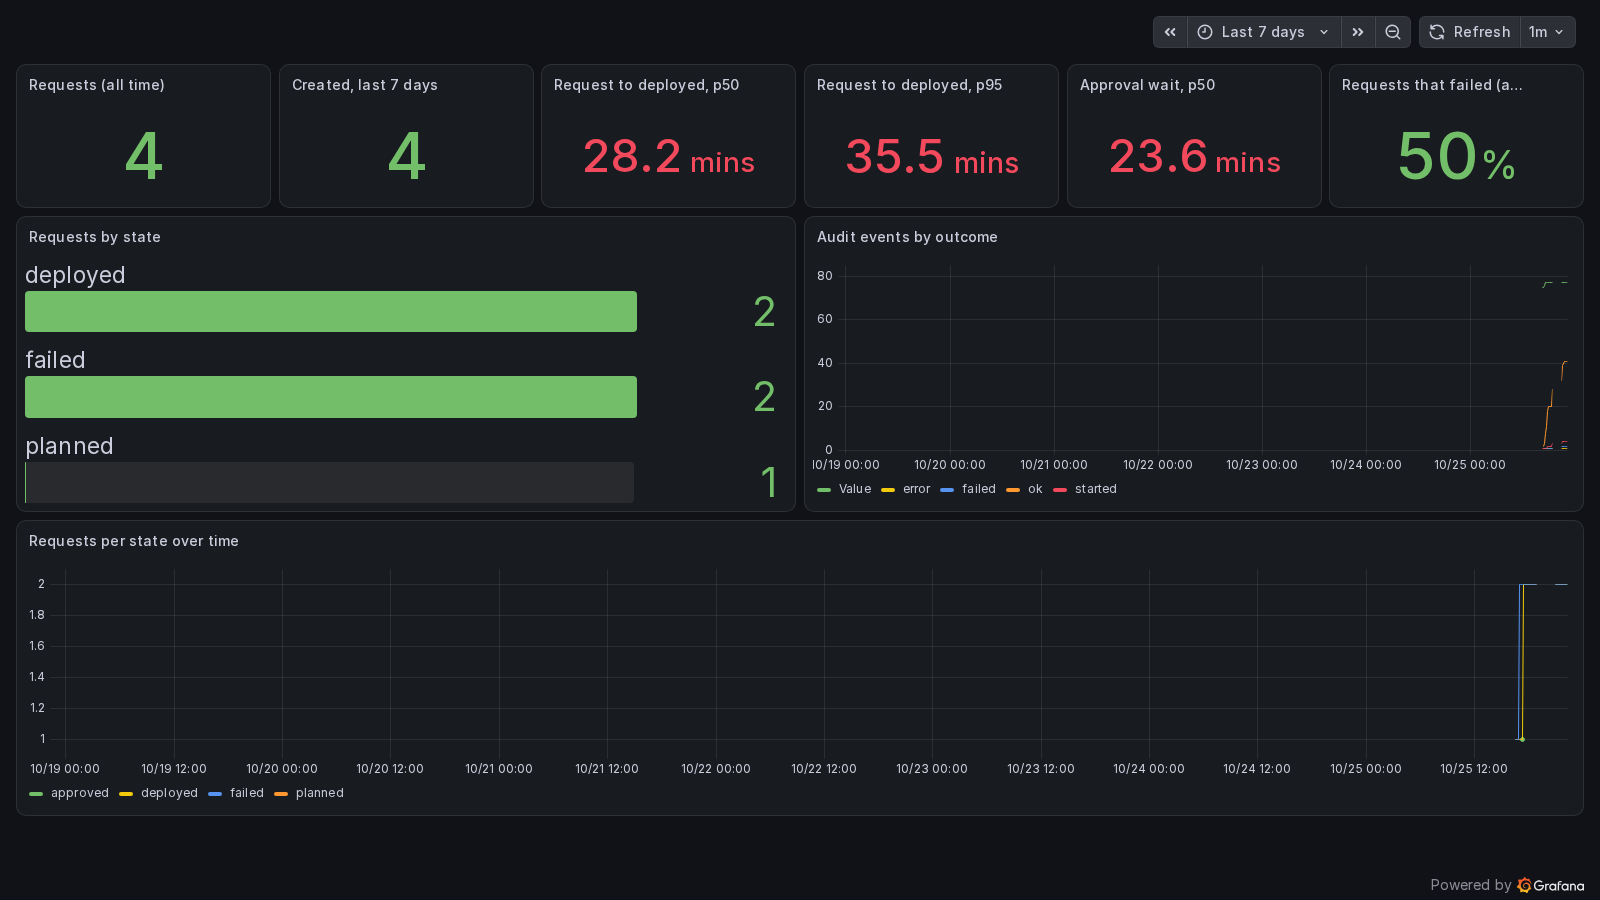
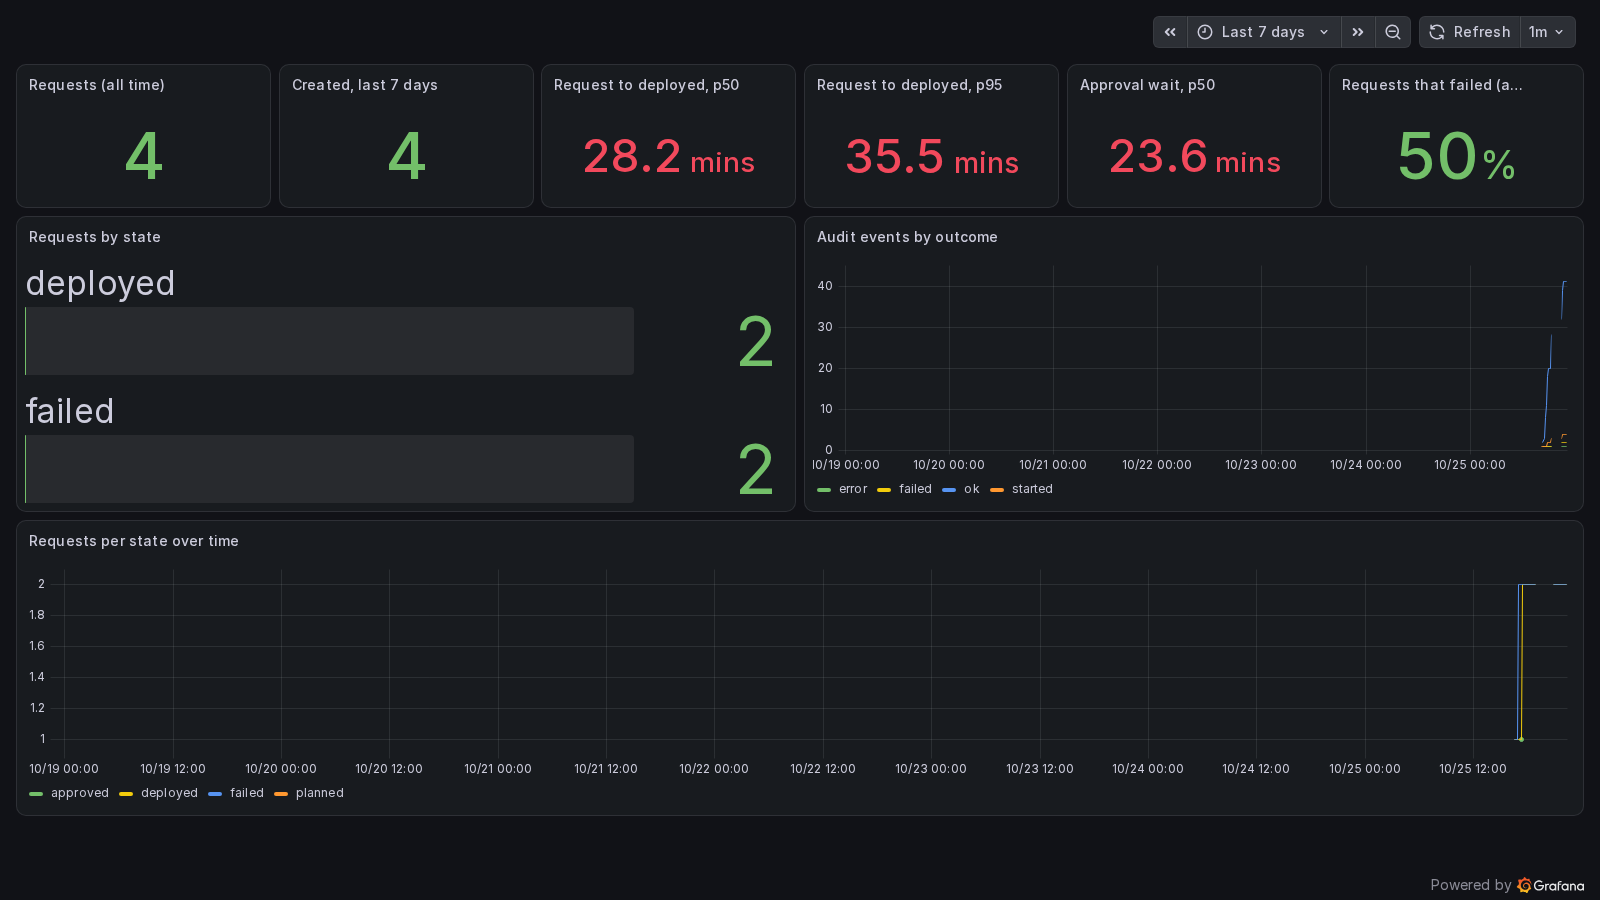
Phase 4 task 4: docs/demo-script.md, the five-minute recording scene by scene (commands, clicks, the waits to cut, a checklist of every README claim and where the recording shows it); README links it; dashboard screenshots retaken after the instant-query fix (eval score 46%, one prompt version, ever

diff --git a/docs/demo-script.md b/docs/demo-script.md
@@ -1,0 +1,201 @@
+# Demo script: five minutes, two stories
+
+The recording shows the two things this repo claims: a developer gets
+cloud and Kubernetes resources through one reviewed path, and an AI agent
+turns an alert into a reviewed pull request without ever touching the
+cluster. Five minutes of screen time; the real waits (CI, the approval,
+the model) are cut and labelled on screen, not hidden.
+
+Every command below runs in the devcontainer terminal unless it says
+"browser". Timings are recording time; "cut" tells you what to skip and
+how long it really takes on the laptop this was built on.
+
+## Before you press record (15 minutes, off camera)
+
+1. Cluster up and green, Ollama serving `qwen3:4b-instruct` on the host:
+
+   ```bash
+   make status                      # every ArgoCD app Synced and Healthy, no pod not Running
+   curl -s http://host.docker.internal:11434/api/tags | grep -o 'qwen3:4b-instruct'
+   ```
+
+2. Nothing broken in git: `make fix` prints "already healthy in git".
+3. A second terminal with the platform API reachable for the CLI:
+
+   ```bash
+   kubectl -n platform port-forward svc/platform-api 18000:80
+   ```
+
+   In the first terminal: `export PLATFORM_API_URL=http://localhost:18000`
+   and `alias platform=platform/api/.venv/bin/platform`.
+4. Browser tabs, in this order, logged in where needed:
+   - the repository on GitHub: **Pull requests**, **Actions**
+   - http://demo.localhost:8080 (the demo app)
+   - http://bank.localhost:8080 (Playground Bank)
+   - http://argocd.localhost:8080 (user `admin`, password printed by `make up`)
+   - http://grafana.localhost:8080/d/platform-dx and
+     http://grafana.localhost:8080/d/platform-agents (user `admin`, the
+     password: `kubectl -n observability get secret grafana-admin -o jsonpath='{.data.admin-password}' | base64 -d`)
+5. Terminal font at 16 pt or larger, window 1600 by 900, dark theme.
+   Record with OBS or the Windows Game Bar (Win+G) at 1080p.
+6. Pick a bucket name that does not exist yet (`team-photos` below). The
+   worker writes the newest bucket's name into the demo app's ConfigMap,
+   so the page will show it.
+
+## Scene 1. What this is (0:00 to 0:30)
+
+Browser: the README, top of the page. Read the first two sentences, then
+scroll to the status table. Say: "two stories, one path for each: a
+request becomes a pull request, an alert becomes a pull request. People
+approve both."
+
+## Scene 2. A developer asks for a bucket (0:30 to 1:40)
+
+Terminal:
+
+```bash
+platform request s3-bucket --name team-photos --team web --cost-center cc-100
+```
+
+It prints the request id (`r-xxxxxx`) and the pull request URL. Open the
+URL in the browser. Show the diff: one file, `requests/r-xxxxxx.tf`, one
+module call. Say: "the API validated the inputs against the type's schema
+and rendered this; nobody wrote Terraform."
+
+**Cut: about 3 minutes.** CI (`iac-pr`) plans, runs the OPA policies,
+Checkov, Trivy and Infracost, then comments on the PR and merges it.
+
+Back on the PR: scroll the bot comment: the plan (`6 to add`), the policy
+result, the cost. The PR is merged. Terminal:
+
+```bash
+platform status r-xxxxxx
+```
+
+Read the timeline: `requested`, `pr-opened`, `plan-ok`, `policy-ok`,
+`planned`. Say: "this timeline is the audit trail; every row has who,
+what and when."
+
+## Scene 3. One click, then the worker (1:40 to 2:30)
+
+Browser: **Actions** tab, the `iac-approve` run waiting on the
+`production` environment. Click **Review deployments**, tick
+`production`, **Approve and deploy**. Say: "the only human step, and it
+is the one GitHub already knows how to audit."
+
+**Cut: about 2 minutes.** The apply worker inside the cluster polls every
+30 seconds, runs Terraform against LocalStack with state in Postgres,
+writes `applied` and `deployed`, and commits the outputs to the GitOps
+folder; ArgoCD rolls the ConfigMap out within 3 minutes.
+
+Terminal: `platform status r-xxxxxx` again: `approved`, `applied`,
+`deployed`, the bucket name in the `applied` row. Browser: the demo app
+tab, refresh: it shows `team-photos`. Say: "request to running app, one
+file reviewed, one click."
+
+## Scene 4. Break the tenant app, let the agent find it (2:30 to 3:50)
+
+Terminal:
+
+```bash
+make break BREAK_TARGET=bank
+```
+
+Read what it prints: it changes one setting line in git
+(`HOST=0.0.0.0` to `0.0.0.0.1`), pushes, and asks ArgoCD to sync. Say:
+"this is someone else's app, Playground Bank, from its own repository;
+the platform only pins a version and a few settings."
+
+**Cut: about 4 minutes.** The pod crash-loops within a minute; the alert
+`BankAppCrashLooping` needs three restarts and one more minute; Alertmanager
+posts it to the agent runtime, which starts a run.
+
+Terminal, show the run exists:
+
+```bash
+kubectl -n platform logs deploy/agent-runtime --since=5m | grep -E "run-|tool"
+```
+
+Say: "the agent reads the pod, the GitOps folder, the logs. Its
+Kubernetes account can only read; it cannot change this cluster even if
+the model wanted to." Prove it in one line:
+
+```bash
+kubectl auth can-i delete pods --as=system:serviceaccount:platform:agent-runtime -n bank
+```
+
+`no`.
+
+**Cut: 10 to 15 minutes on the local 4B model** (about a minute on
+Claude). Say so on screen; the honesty is part of the pitch.
+
+Browser: **Pull requests**: the agent's PR, title from the run. Show the
+diff: `+1 / -1`, the HOST line. Scroll the body: symptoms, evidence (the
+exact log line `getaddrinfo ENOTFOUND 0.0.0.0.1`), root cause, the
+proposed change, confidence, what it could not verify. Say: "a one-line
+fix with its evidence; the tool only lets it change one line, under
+`gitops/apps/`, on a branch named `agent/`."
+
+Click **Merge pull request**.
+
+**Cut: about 3 minutes.** ArgoCD syncs; the app is Ready in seconds.
+
+Browser: the bank tab, refresh: products load. Terminal:
+
+```bash
+curl -s http://localhost:18000/smoke/bank
+```
+
+`4 of 4 passed`. Say: "the same smoke test the agent can run as a
+read-only tool."
+
+## Scene 5. The trust layer (3:50 to 4:40)
+
+Browser, Grafana, the **Agents** dashboard: runs, success rate, tool calls
+by outcome, the eval score of the deployed prompt. Say: "the model is
+small and wrong a quarter of the time; the point is that it cannot be
+dangerous, and every wrong answer becomes a recorded scenario." Switch to
+the **Platform DX** dashboard: request to deployed, approval wait.
+
+Terminal, the recorded scenarios and the policy as code, one `ls` each:
+
+```bash
+ls agents/evals/fixtures/      # 13 scenarios, incidents and safety traps
+ls docs/runbooks/              # seven runbooks the agent reads, one per alert family
+ls infra/policies/kyverno/     # the third lock: the cluster refuses writes from the agent
+```
+
+Say: "`make evals` scores a prompt change against all 13 before it ships;
+the score on the dashboard is from the last run."
+
+## Scene 6. Close (4:40 to 5:00)
+
+Browser: the README's "Add a resource type in 10 minutes" and "Add an
+agent in 20 minutes" headings, then `docs/adr/`. Say: "twelve decision
+records explain the why; the roadmap says what is next. Clone it, run
+`make up`, and the README is the only guide you need."
+
+## After recording
+
+- `make fix` if you did not merge the agent's PR (it did nothing if you
+  did). Delete the demo request's bucket only by closing its PR before
+  merge next time; LocalStack forgets everything on `make down` anyway.
+- Put the video next to the README (a link under the golden-path GIF).
+
+## What the README claims and where the recording shows it
+
+| Claim | Scene |
+|---|---|
+| One command opens a request and a pull request with one Terraform file | 2 |
+| CI comments plan, policy, security and cost; green PRs merge themselves | 2 |
+| One human click on the `production` environment | 3 |
+| A worker inside the cluster applies; the audit trail shows every step | 3 |
+| The app reads its new resource from a ConfigMap the worker committed | 3 |
+| A tenant app from its own repository runs on the platform | 4 |
+| An alert becomes an agent run with real logs | 4 |
+| The agent cannot write to the cluster (RBAC answer `no`) | 4 |
+| A one-line pull request with evidence; a human merges | 4 |
+| The app heals from the merged change | 4 |
+| Dashboards: runs, tool outcomes, eval score, request to deployed | 5 |
+| Recorded scenarios, runbooks and Kyverno policies live in git | 5 |
+| ADRs, roadmap, the two how-to sections | 6 |

diff --git a/README.md b/README.md
@@ -40,7 +40,7 @@ live and dated); and me, as the reference implementation I keep extending.
 | 1. Self-service path | catalog, platform API and CLI, Terraform modules, PR pipeline with plan, policy and cost, approval gate, in-cluster apply worker, audit trail, Pulumi preview environments | done: request -> PR with plan, policy and security checks -> auto-merge -> one-click approval -> in-cluster apply -> audit timeline -> demo app shows its bucket (2026-10-24) |
 | 2. Agent platform | model-agnostic agent runtime, MCP tool registry with capability labels, incident-triage agent, fix PR flow, Alertmanager wiring | done: `make break` -> alert -> agent reads the pod and the GitOps file -> one-line fix on an `agent/*` branch -> PR with a report -> human merge -> ArgoCD heals the app -> alert resolves -> run closed (2026-10-25: 10 minutes from alert to report on a local 4B model) |
 | 3. Trust layer | Promptfoo eval suite in CI, safety cases, Kyverno policies against the agent service account, OpenTelemetry traces per run and tool call, Grafana dashboards | done: thirteen recorded scenarios behind the same guard, `make evals` and the `agents-eval` gate, one trace per run linked from the run record, append-only audit table with nightly export, Platform DX and Agents dashboards, four Kyverno policies verified live, SLO alerts (2026-10-25) |
-| 4. Product and polish | GitHub settings as code, product README, roadmap, demo script, optional real AWS and Datadog | in progress: the repository's own GitHub settings are Terraform (`make github-settings`, applied 2026-10-25); this README; [roadmap](docs/roadmap.md) |
+| 4. Product and polish | GitHub settings as code, product README, roadmap, demo script, optional real AWS and Datadog | in progress: the repository's own GitHub settings are Terraform (`make github-settings`, applied 2026-10-25); this README; [roadmap](docs/roadmap.md); seven runbooks; [demo script](docs/demo-script.md) |
 
 A second app, [Playground Bank](https://github.com/asaf-1/Agents-Playground),
 runs on the platform as a tenant from its own repository; the agent fixed a
@@ -361,7 +361,9 @@ scripts/            what the Makefile targets run
 - [0011 A tenant app deployed from its own repository](docs/adr/0011-tenant-app-from-its-own-repo.md)
 - [0012 The repository's GitHub settings as Terraform, applied by a person](docs/adr/0012-github-settings-as-code.md)
 
-See also the [roadmap](docs/roadmap.md) and [CONTRIBUTING.md](CONTRIBUTING.md).
+See also the [roadmap](docs/roadmap.md), [CONTRIBUTING.md](CONTRIBUTING.md)
+and the [demo script](docs/demo-script.md): the exact commands and clicks
+of a five-minute recording, with the waits marked.
 
 ## License
 
